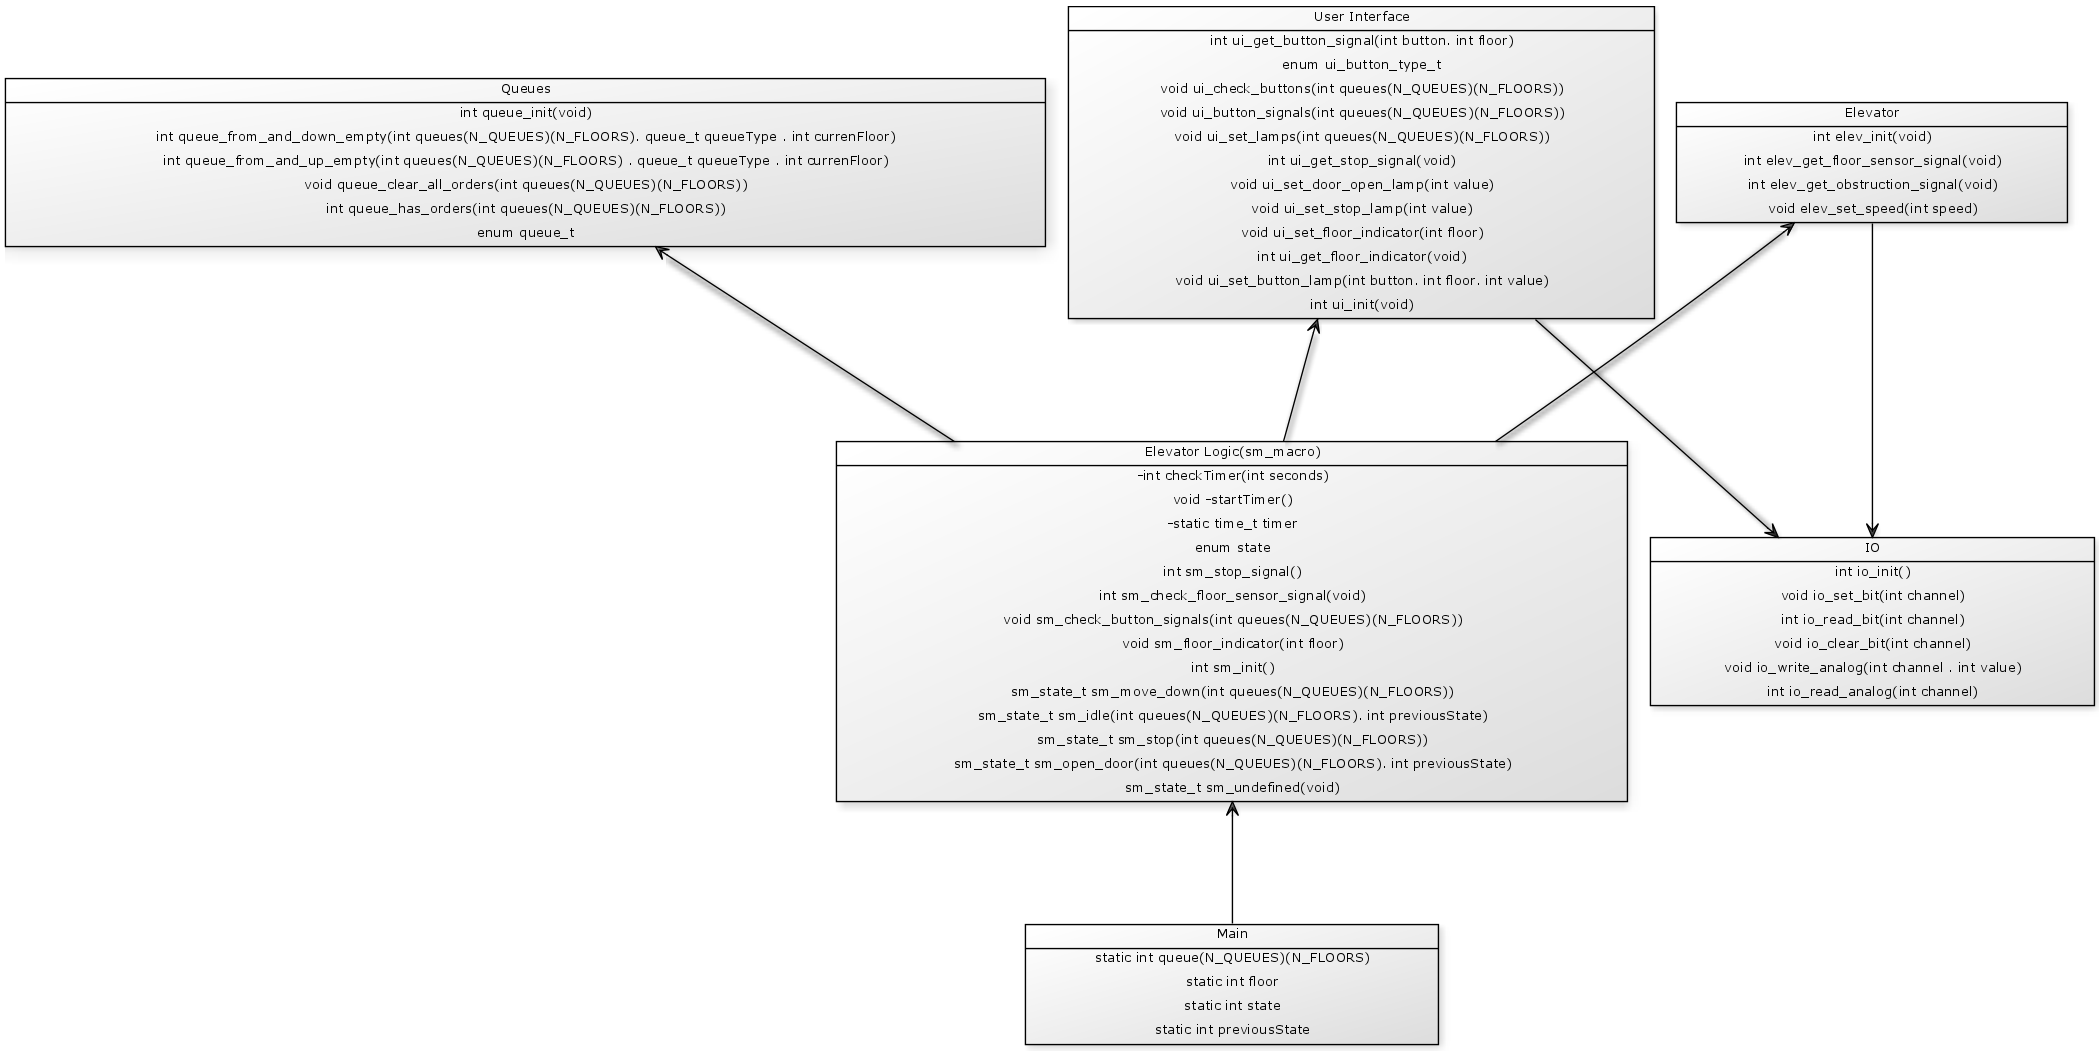
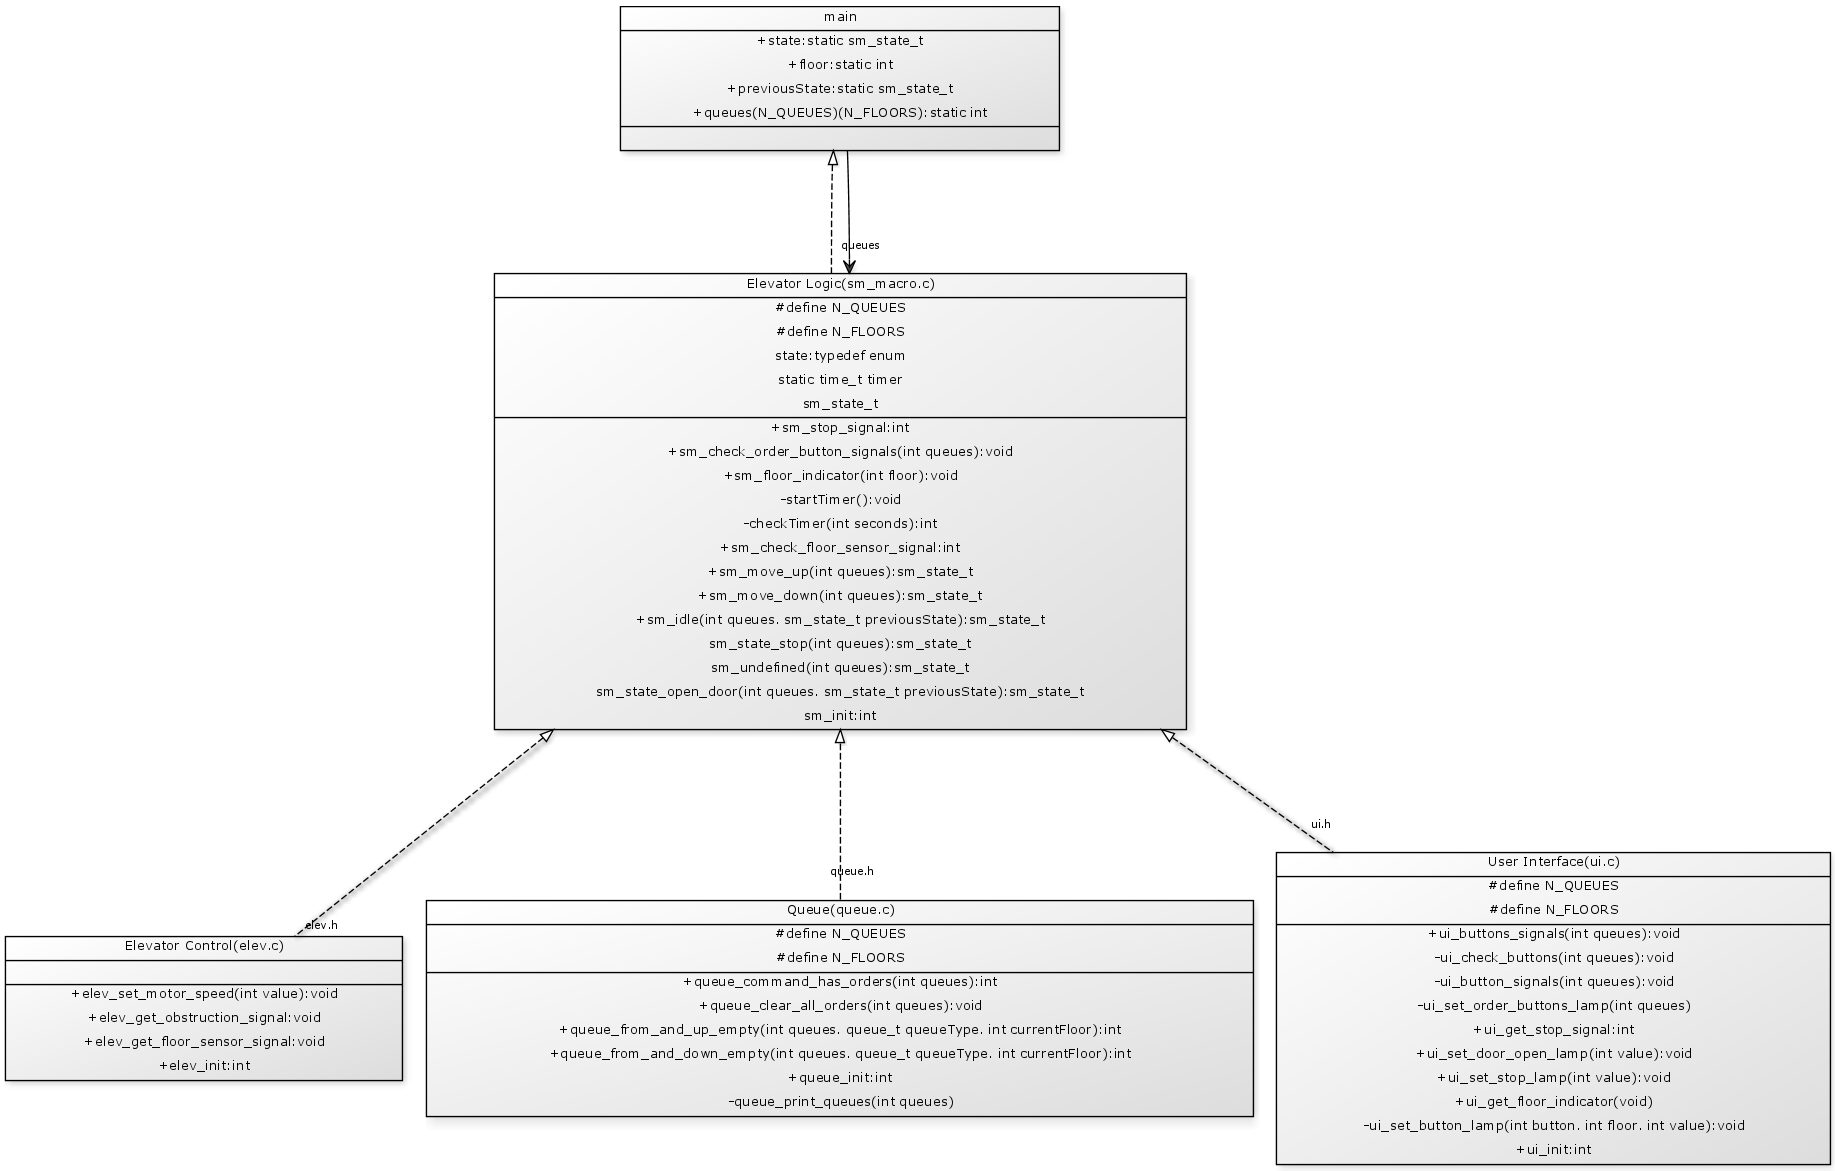
fix for UML
also some fix in code to match UML

diff --git a/heis_code/sm_macro.h b/heis_code/sm_macro.h
@@ -30,7 +30,7 @@ int sm_check_floor_sensor_signal(void);
 Checks for button press and sets the light on appropriate
 button and add elements to queue.
 */
-void sm_check_button_signals(int queues[N_QUEUES][N_FLOORS]);
+void sm_check_order_button_signals(int queues[N_QUEUES][N_FLOORS]);
 
 /**
 Sets the correct floor indicator light.
@@ -56,7 +56,7 @@ sm_state_t sm_move_down(int queues[N_QUEUES][N_FLOORS]);
 /**
 Contains the idle state logic and returns open door, idle or move down.
 */
-sm_state_t sm_idle(int queues[N_QUEUES][N_FLOORS], int previousState);
+sm_state_t sm_idle(int queues[N_QUEUES][N_FLOORS], sm_state_t previousState);
 
 
 /**

diff --git a/heis_code/main.c b/heis_code/main.c
@@ -5,7 +5,7 @@
 static int queues[N_QUEUES][N_FLOORS] = {{0}};
 
 //initializes state system
-static int state = STATE_UNDEFINED;
+static sm_state_t state = STATE_UNDEFINED;
 static sm_state_t previousState = STATE_UNDEFINED;
 
 //initialize floor indicator variable
@@ -25,7 +25,7 @@ int main()
    		floor = sm_check_floor_sensor_signal();
 
 		//Checks for buttons signals from panel.
-		sm_check_button_signals(queues);
+		sm_check_order_button_signals(queues);
 
 		//Make UI light up the floor indicator lamp at the correct last seen floor.
 		sm_floor_indicator(floor);

diff --git a/heis_code/sm_macro.c b/heis_code/sm_macro.c
@@ -41,7 +41,7 @@ int sm_check_floor_sensor_signal(void){
 }
 
 //Makes ui check for button input from elevator panel.
-void sm_check_button_signals(int queues[N_QUEUES][N_FLOORS])
+void sm_check_order_button_signals(int queues[N_QUEUES][N_FLOORS])
 {
 	ui_button_signals(queues);
 }
@@ -245,7 +245,7 @@ sm_state_t sm_move_down(int queues[N_QUEUES][N_FLOORS]){
 	}
 }
 
-sm_state_t sm_idle(int queues[N_QUEUES][N_FLOORS], int previousState) {
+sm_state_t sm_idle(int queues[N_QUEUES][N_FLOORS], sm_state_t previousState) {
 	
 	//Stops the elevator,
 	elev_set_speed(0);

diff --git a/heis_code/ui.c b/heis_code/ui.c
@@ -24,7 +24,7 @@ static const int button_channel_matrix[N_FLOORS][N_BUTTONS] =
 void ui_button_signals(int queues[N_QUEUES][N_FLOORS])
 {
 	ui_check_buttons(queues);
-	ui_set_lamps(queues);
+	ui_set_order_buttons_lamp(queues);
 }
 
 //Checks if there are any button pressed on the panel
@@ -49,7 +49,7 @@ void ui_check_buttons(int queues[N_QUEUES][N_FLOORS]){
 
 }
 
-void ui_set_lamps(int queues[N_QUEUES][N_FLOORS]){
+void ui_set_order_buttons_lamp(int queues[N_QUEUES][N_FLOORS]){
 	int queue;
 	int floor;
 	

diff --git a/heis_code/ui.h b/heis_code/ui.h
@@ -34,7 +34,7 @@ void ui_check_buttons(int queues[N_QUEUES][N_FLOORS]);
 void ui_button_signals(int queues[N_QUEUES][N_FLOORS]);
 
 //set lights
-void ui_set_lamps(int queues[N_QUEUES][N_FLOORS]);
+void ui_set_order_buttons_lamp(int queues[N_QUEUES][N_FLOORS]);
 
 /**
   Get signal from stop button.

diff --git a/heis_code/elev.h b/heis_code/elev.h
@@ -5,12 +5,6 @@
 #ifndef __INCLUDE_DRIVER_H__
 #define __INCLUDE_DRIVER_H__
 
-
-// Number of floors
-#define N_FLOORS 4
-#define N_QUEUES 3 
-
-
 /**
   Sets the speed of the elevator. 
   @param speed New speed of elevator. Positive values denote upward movement
